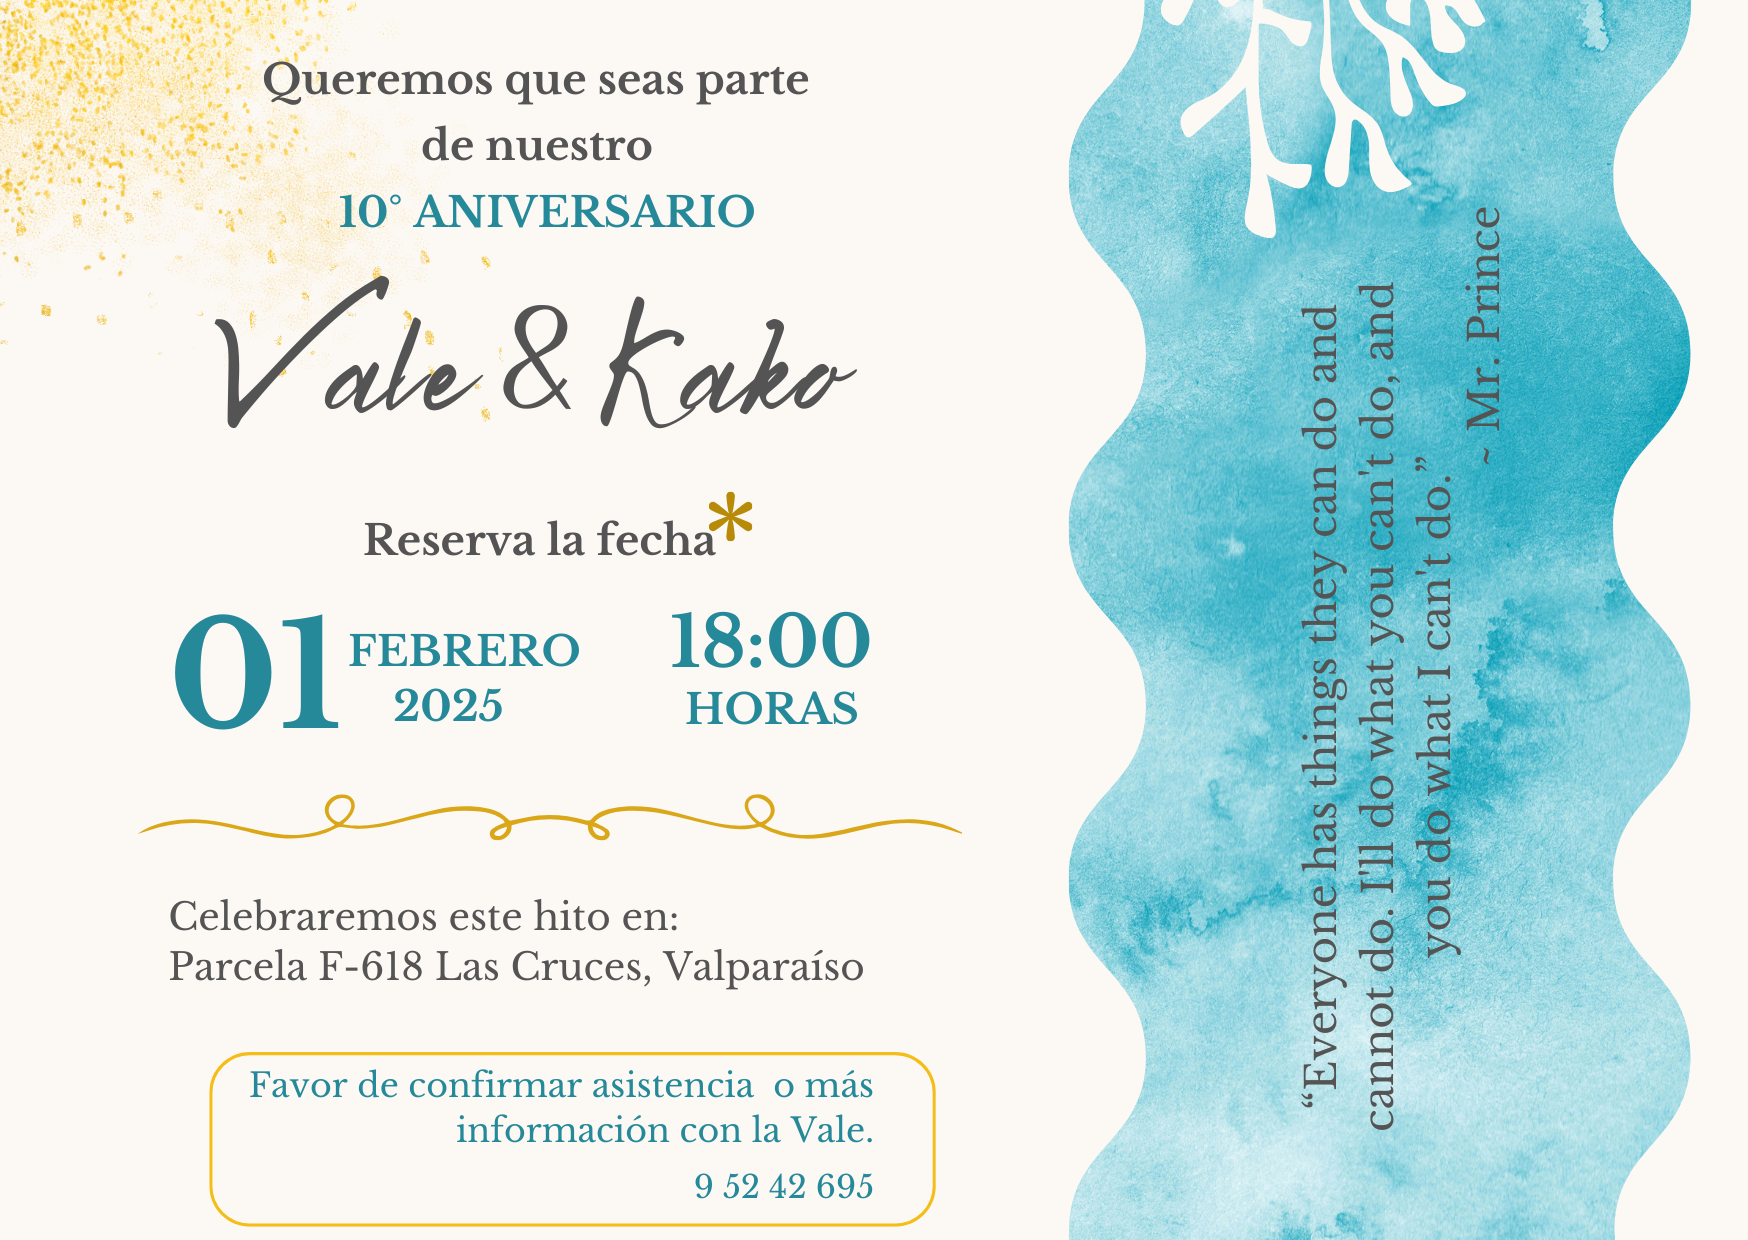
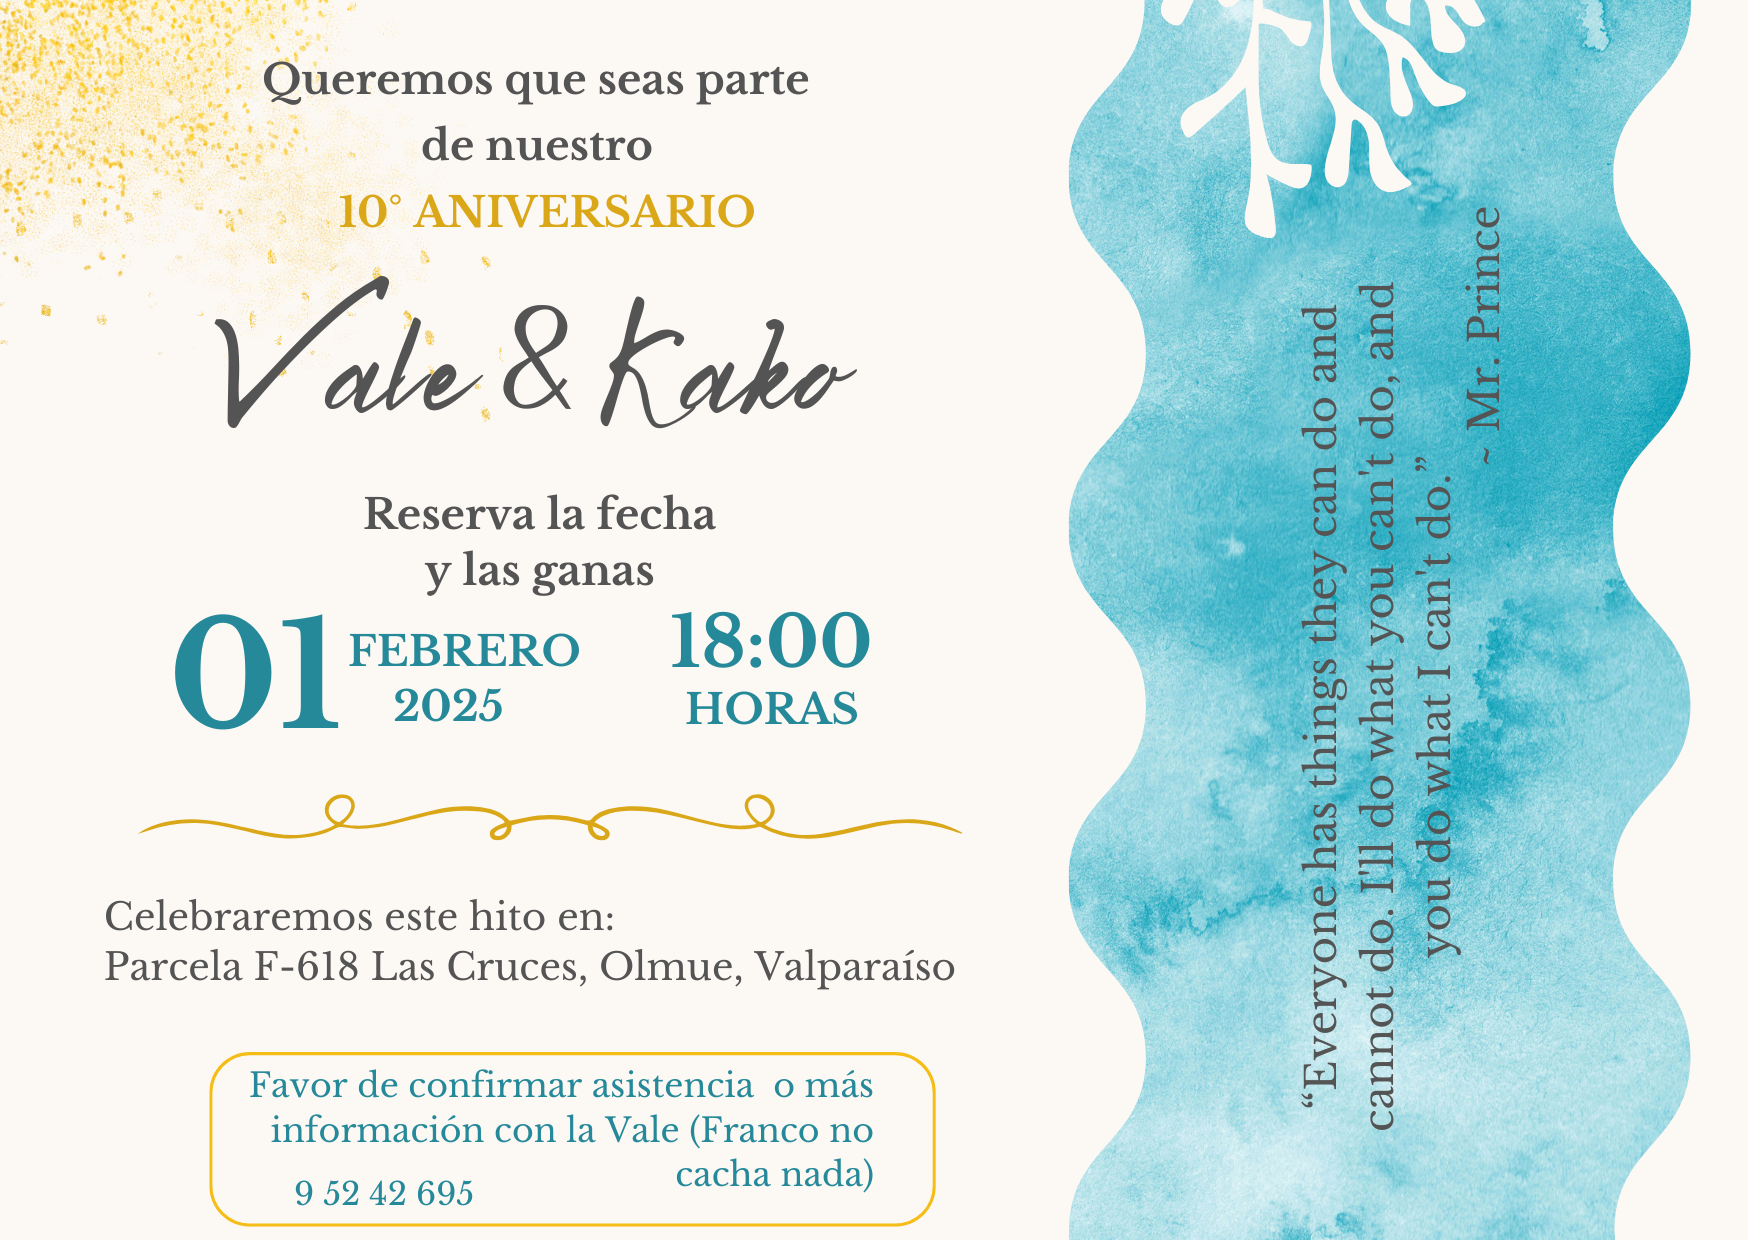
changes almost done

diff --git a/src/App.js b/src/App.js
@@ -3,6 +3,7 @@ import { Carousel } from "react-responsive-carousel";
 import "react-responsive-carousel/lib/styles/carousel.min.css";
 import "./App.css";
 import sprite from "./sprite.svg";
+import WhatsAppButton from "./WhatsAppButtonComponent.js"
 
 // Import images from the local src directory
 import img1 from "./mage1/1.png";
@@ -13,38 +14,66 @@ const images = [img1, img2];
 function App() {
   return (
     <div className="box">
-      <Carousel  showIndicators
-            renderArrowNext={(clickHandler, hasNext) => {
-              return (
-                hasNext && (
-                  <button className="nav_btn nav_btn_right" onClick={clickHandler}>
-                    <svg>
-                      <use xlinkHref={sprite + "#right"}></use>
-                    </svg>
-                  </button>
-                )
-              );
-            }}
-            renderArrowPrev={(clickHandler, hasNext) => {
-              return (
-                hasNext && (
-                  <button onClick={clickHandler} className="nav_btn nav_btn_left">
-                    <svg>
-                      <use xlinkHref={sprite + "#left"}></use>
-                    </svg>
-                  </button>
-                )
-              );
-            }}
+      <Carousel showIndicators
+        renderArrowNext={(clickHandler, hasNext) => {
+          return (
+            hasNext && (
+              <button className="nav_btn nav_btn_right" onClick={clickHandler}>
+                <svg>
+                  <use xlinkHref={sprite + "#right"}></use>
+                </svg>
+              </button>
+            )
+          );
+        }}
+        renderArrowPrev={(clickHandler, hasNext) => {
+          return (
+            hasNext && (
+              <button onClick={clickHandler} className="nav_btn nav_btn_left">
+                <svg>
+                  <use xlinkHref={sprite + "#left"}></use>
+                </svg>
+              </button>
+            )
+          );
+        }}
 
-            >
+      >
         {images.map((image, index) => (
           <div className="slide-box" key={index}>
             <img alt={`slide-${index}`} src={image} />
           </div>
         ))}
       </Carousel>
+      <div className="info-box">
+        <div className="important">
+          <p>
+            Favor confirmar asistencia o pedir más información con la Vale
+          </p>
+          <p>(Franco no cacha nada) &#128540;</p>
+          <br/>
+          <WhatsAppButton />
+        </div>
+        <div className="more-info">
+          <ul className="list-info">
+            <li>
+              Para asegurar tu asistencia y estadía, pedimos una cuota de $15.000 por persona, esto nos ayuda para poder sobrevivir este gasto &#128517;
+            </li>
+            <li>
+              Vestimenta: Opcional &#127882;
+            </li>
+            <li>
+              Si llegan temprano o se van tarde habra piscina así que lleven sus cositas &#129343;  
+            </li>
+            <li>
+              La ubicación por maps será entregada más adelante &#128506;
+            </li>
+          </ul>
+        </div>
+      </div>
+
     </div>
+
   );
 }
 

diff --git a/public/index.html b/public/index.html
@@ -2,42 +2,20 @@
 <html lang="en">
   <head>
     <meta charset="utf-8" />
-    <link rel="icon" href="%PUBLIC_URL%/favicon.ico" />
     <meta name="viewport" content="width=device-width, initial-scale=1" />
-    <meta name="theme-color" content="#000000" />
+    <!-- <meta name="theme-color" content="#000000" /> -->
     <meta
       name="description"
-      content="Web site created using create-react-app"
-    />
-    <link rel="apple-touch-icon" href="%PUBLIC_URL%/logo192.png" />
-    <!--
-      manifest.json provides metadata used when your web app is installed on a
-      user's mob  ile device or desktop. See https://developers.google.com/web/fundamentals/web-app-manifest/
-    -->
-    <link rel="manifest" href="%PUBLIC_URL%/manifest.json" />
-    <!--
-      Notice the use of %PUBLIC_URL% in the tags above.
-      It will be replaced with the URL of the `public` folder during the build.
-      Only files inside the `public` folder can be referenced from the HTML.
-
-      Unlike "/favicon.ico" or "favicon.ico", "%PUBLIC_URL%/favicon.ico" will
-      work correctly both with client-side routing and a non-root public URL.
-      Learn how to configure a non-root public URL by running `npm run build`.
-    -->
-    <title>React App</title>
+      content="invitacion"
+    />  
+    <title>Invitación Vale & Franco</title>
+    <!-- <link rel="icon" href="farmer-hat.png" /> -->
+    <link rel="icon" href="%PUBLIC_URL%/favicon.ico" />
+    <link rel="preconnect" href="https://fonts.googleapis.com">
+    <link rel="preconnect" href="https://fonts.gstatic.com" crossorigin>
+    <link href="https://fonts.googleapis.com/css2?family=Libre+Baskerville:ital,wght@0,400;0,700;1,400&display=swap" rel="stylesheet">
   </head>
   <body>
-    <noscript>You need to enable JavaScript to run this app.</noscript>
     <div id="root"></div>
-    <!--
-      This HTML file is a template.
-      If you open it directly in the browser, you will see an empty page.
-
-      You can add webfonts, meta tags, or analytics to this file.
-      The build step will place the bundled scripts into the <body> tag.
-
-      To begin the development, run `npm start` or `yarn start`.
-      To create a production bundle, use `npm run build` or `yarn build`.
-    -->
   </body>
 </html>

diff --git a/src/WhatsAppButtonComponent.js b/src/WhatsAppButtonComponent.js
@@ -1,0 +1,38 @@
+import React from "react";
+
+const WhatsAppButton = () => {
+  const phoneNumber = "56995242695"; 
+  const message = "RSVP"; 
+
+  // Encode the message to handle spaces and special characters
+  const encodedMessage = encodeURIComponent(message);
+
+  const whatsappUrl = `https://wa.me/${phoneNumber}?text=${encodedMessage}`;
+
+  return (
+    <a
+      href={whatsappUrl}
+      target="_blank"
+      rel="noopener noreferrer"
+      style={{
+        display: "inline-flex",
+        alignItems: "center",
+        padding: "10px 20px",
+        backgroundColor: "#21bd5b", // WhatsApp green color
+        color: "#fff",
+        borderRadius: "5px",
+        textDecoration: "none",
+        fontWeight: "bold",
+      }}
+    >
+      <img
+        src="https://upload.wikimedia.org/wikipedia/commons/6/6b/WhatsApp.svg"
+        alt="WhatsApp"
+        style={{ width: "20px", marginRight: "10px" }}
+      />
+      RSVP via WhatsApp
+    </a>
+  );
+};
+
+export default WhatsAppButton;

diff --git a/src/App.css b/src/App.css
@@ -1,3 +1,18 @@
+.info-box{
+  background-color: #deb887;
+}
+.important{
+  padding: 1rem;
+  text-align: center;
+
+}
+.list-info{
+  padding: 1rem 2rem;
+}
+
+.list-info li{
+  line-height: 1.5;
+}
 
 body {
   background-color: cadetblue;
@@ -6,8 +21,10 @@ body {
 * {
   margin: 0;
   padding: 0;
-  font-family: -apple-system, BlinkMacSystemFont, "Segoe UI", Roboto, Oxygen,
-    Ubuntu, Cantarell, "Open Sans", "Helvetica Neue", sans-serif;
+  font-family: "Libre Baskerville", serif;
+  font-weight: 400;
+  font-style: normal;
+  color: #484848;
 }
 
 .box {
@@ -21,17 +38,6 @@ body {
 
 .slider-wrapper {
   padding-top:2rem;
-}
-
-.carousel  {
-  left: 0;
-  right: 0;
-  text-align: center;
-  color: #000;
-  font-size: 1.4rem;
-  text-shadow: none;
-  margin-top: 1rem;
-  font-weight: 700;
 }
 
 .carousel .thumb.selected, .carousel .thumb:hover {
